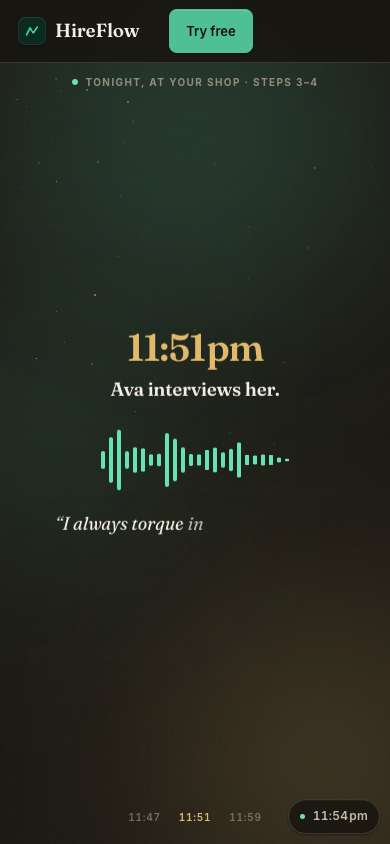
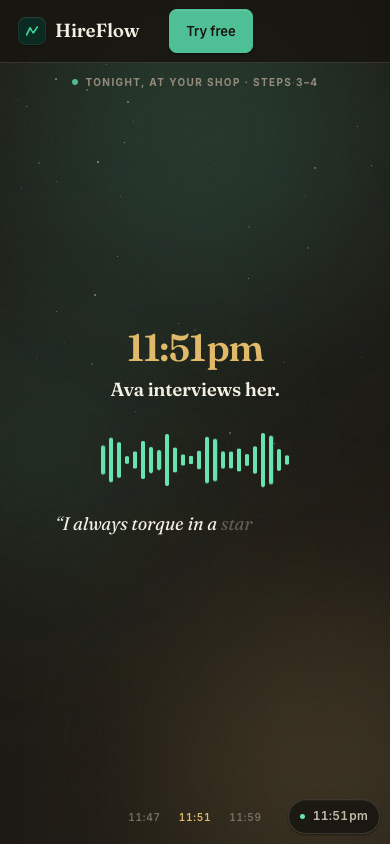
Pin the story/dawn clock chip to the visible beat's own minute; fix Ava-never-rejects honesty claim
The clock chip used to ride a continuous scroll-proportional timer while
each beat's caption held fully opaque and static, so the chip could read
several minutes (dawn strip) or up to ~7 minutes (11:51pm story scene)
ahead of what the caption on screen actually said. Root cause: the
chip's minute value and the beat's opacity were two independent
functions of scroll progress that only agreed at one exact instant, not
across the plateau where a beat sits at full opacity.

Fix: the chip now blends toward each beat's own target minute using
that beat's own opacity as the blend weight (BEAT_OP for the dawn
beats, SC.o1/o2/o3 for the night-shift scenes). Whenever a beat is at
or near full opacity, the weight forces the chip to its exact minute;
it only drifts during a genuine crossfade where no beat is dominant.
Verified via headless scroll sampling across the full night+dawn strip
at 390/820/1440px: the chip never disagrees with a fully-opaque beat's
own stated time.

Also fixed the "Ava recommends. She never rejects." claim (You make
every call section + a matching FAQ answer) — false for the shipped
default: jobFromFlow.ts creates every job with processing_mode "auto",
and autopilot-batch/index.ts auto-rejects candidates below the
employer's bar without a human click. Reworded to honestly describe
Autopilot (on by default, clears calls below the employer's own bar)
vs. Manual (one tap away, every yes/no is the employer's click),
[…]

diff --git a/public/landing.html b/public/landing.html
@@ -1354,40 +1354,40 @@
     </div>
   </section>
 
-  <!-- ── You make every call ── -->
-  <section id="trust" aria-label="You make every call">
+  <!-- ── You set how far Ava goes ── -->
+  <section id="trust" aria-label="You set how far Ava goes">
     <div class="wrap">
-      <p class="kick lbl io">You make every call</p>
-      <h2 class="io" style="--d:.08s">Ava recommends. She never rejects.</h2>
-      <p class="sub io" style="--d:.16s">Ava has no reject button. Hiring at your shop stays yours — she just
-        carries the weight of it.</p>
+      <p class="kick lbl io">You set how far Ava goes</p>
+      <h2 class="io" style="--d:.08s">Ava recommends. You set the bar.</h2>
+      <p class="sub io" style="--d:.16s">Every job starts on Ava&#8217;s autopilot, clearing the calls your own bar
+        already settled. Flip to manual any time, and every yes and every no becomes your click.</p>
       <div class="twocol">
         <div class="col io" style="--d:.05s">
           <div class="col-h">
             <svg viewBox="0 0 100 100" aria-hidden="true"><use href="#wax-sm"/></svg>
-            <span class="lbl">Ava&#8217;s side of the counter</span>
+            <span class="lbl">Autopilot &middot; on by default</span>
           </div>
           <ul>
             <li><svg width="14" height="14" viewBox="0 0 24 24" fill="none" stroke="var(--jade)" stroke-width="2.5" stroke-linecap="round" stroke-linejoin="round" aria-hidden="true"><path d="M4 12.5 9 17.5 20 6.5"/></svg><span>Reads every application — the 11&#8202;pm ones included</span></li>
             <li><svg width="14" height="14" viewBox="0 0 24 24" fill="none" stroke="var(--jade)" stroke-width="2.5" stroke-linecap="round" stroke-linejoin="round" aria-hidden="true"><path d="M4 12.5 9 17.5 20 6.5"/></svg><span>Interviews everyone within minutes, at any hour</span></li>
             <li><svg width="14" height="14" viewBox="0 0 24 24" fill="none" stroke="var(--jade)" stroke-width="2.5" stroke-linecap="round" stroke-linejoin="round" aria-hidden="true"><path d="M4 12.5 9 17.5 20 6.5"/></svg><span>Writes every score down <b>with the evidence behind it</b></span></li>
-            <li><svg width="14" height="14" viewBox="0 0 24 24" fill="none" stroke="var(--jade)" stroke-width="2.5" stroke-linecap="round" stroke-linejoin="round" aria-hidden="true"><path d="M4 12.5 9 17.5 20 6.5"/></svg><span>Sends the courteous &ldquo;not this time&rdquo; notes — after you decide, in your name</span></li>
+            <li><svg width="14" height="14" viewBox="0 0 24 24" fill="none" stroke="var(--jade)" stroke-width="2.5" stroke-linecap="round" stroke-linejoin="round" aria-hidden="true"><path d="M4 12.5 9 17.5 20 6.5"/></svg><span>Clears anyone below <b>the bar you set</b>, with a courteous &ldquo;not this time&rdquo; note sent in your name</span></li>
           </ul>
         </div>
         <div class="col yours io" style="--d:.18s">
           <div class="col-h">
             <span class="brand-mark" style="width:22px;height:22px;border-radius:6px"><svg width="13" height="13" viewBox="0 0 24 24" aria-hidden="true"><use href="#rising"/></svg></span>
-            <span class="lbl">Yours, always</span>
+            <span class="lbl">Manual &middot; one tap away</span>
           </div>
           <ul>
-            <li><svg width="14" height="14" viewBox="0 0 24 24" fill="none" stroke="var(--brass)" stroke-width="2.5" stroke-linecap="round" stroke-linejoin="round" aria-hidden="true"><path d="M4 12.5 9 17.5 20 6.5"/></svg><span>Read three short briefs over coffee</span></li>
-            <li><svg width="14" height="14" viewBox="0 0 24 24" fill="none" stroke="var(--brass)" stroke-width="2.5" stroke-linecap="round" stroke-linejoin="round" aria-hidden="true"><path d="M4 12.5 9 17.5 20 6.5"/></svg><span>Pick who to meet — and meet them your way</span></li>
+            <li><svg width="14" height="14" viewBox="0 0 24 24" fill="none" stroke="var(--brass)" stroke-width="2.5" stroke-linecap="round" stroke-linejoin="round" aria-hidden="true"><path d="M4 12.5 9 17.5 20 6.5"/></svg><span>Switch off autopilot in one tap, any time</span></li>
+            <li><svg width="14" height="14" viewBox="0 0 24 24" fill="none" stroke="var(--brass)" stroke-width="2.5" stroke-linecap="round" stroke-linejoin="round" aria-hidden="true"><path d="M4 12.5 9 17.5 20 6.5"/></svg><span>Read every brief yourself before anything moves</span></li>
             <li><svg width="14" height="14" viewBox="0 0 24 24" fill="none" stroke="var(--brass)" stroke-width="2.5" stroke-linecap="round" stroke-linejoin="round" aria-hidden="true"><path d="M4 12.5 9 17.5 20 6.5"/></svg><span>Say <b>every yes and every no</b> — each one is your click</span></li>
             <li><svg width="14" height="14" viewBox="0 0 24 24" fill="none" stroke="var(--brass)" stroke-width="2.5" stroke-linecap="round" stroke-linejoin="round" aria-hidden="true"><path d="M4 12.5 9 17.5 20 6.5"/></svg><span>Make the hire, shake the hand</span></li>
           </ul>
         </div>
       </div>
-      <p class="never io" style="--d:.1s">Ava never rejects anyone. <b>Not quietly, not automatically, not ever.</b></p>
+      <p class="never io" style="--d:.1s">Autopilot only closes calls your own bar already made obvious. <b>Anything borderline waits for you — and manual mode is always one tap away.</b></p>
     </div>
   </section>
 
@@ -1426,8 +1426,10 @@
         </details>
         <details>
           <summary>Can Ava turn someone down without me?</summary>
-          <p><b>No. Never.</b> Ava scores, seals, and recommends — passing on someone is always your click. And when
-            you do pass, she sends a courteous reply in your name, so the answer is a kindness instead of silence.</p>
+          <p>By default, for the clear cases — Ava&#8217;s autopilot passes on anyone who doesn&#8217;t clear the bar
+            you set, and sends a courteous reply in your name, so the answer is a kindness instead of silence.
+            Anything borderline waits for you, and you can switch to manual mode any time to put every yes and
+            every no back in your own hands.</p>
         </details>
       </div>
     </div>
@@ -1510,6 +1512,11 @@
   var BEATS=[].slice.call(d.querySelectorAll(".beat")).map(function(el){
     return[el,parseFloat(el.getAttribute("data-c"))];});
   var BW=0.115; /* beat band width — wider on a phone so one is always in view */
+  /* the clock chip's dawn-strip minute targets, one per BEATS entry, tuned so
+     the chip reads exactly "1:20 am"/"3:47 am"/"5:36 am" while that beat sits
+     at full opacity (see BEAT_OP below — same weighting keeps the two from
+     ever disagreeing while a beat looks static) */
+  var BEAT_MIN=[81,228,337],BEAT_OP=[0,0,0];
 
   /* ── The night shift: a pinned stage scrubbed by scroll. Everything below is a
      pure function of the section's local progress p — scroll up and it rewinds. ── */
@@ -1547,6 +1554,8 @@
          S3 in    [0.62,0.68]  hold+anim [0.68,0.90]  out [0.90,0.94]
          S4 in    [0.94,1.00]  (phones only — .story-sign) */
     var o1=1-sm(seg(p,0.18,0.24));
+    SC.o1=o1; /* the clock chip reads this back so it can't drift past 11:47pm
+      while this scene is the one sitting fully opaque on screen */
     scene(SC.s1,o1,(1-sm(seg(p,0,0.10)))*18-sm(seg(p,0.18,0.24))*10);
     for(i=0;i<SC.rows.length;i++){ /* born full — the hook card hands off here;
       the lines just settle into place over the first few percent */
@@ -1557,6 +1566,8 @@
     /* 11:51 — the interview: rises only once 11:47 has fully faded, never a
        moment where both are on screen */
     var o2=sm(seg(p,0.24,0.30))*(1-sm(seg(p,0.56,0.62)));
+    SC.o2=o2; /* same guarantee for 11:51pm — this is the plateau the clock
+      chip used to keep marching through while the quote sat still */
     scene(SC.s2,o2,(1-sm(seg(p,0.24,0.30)))*26-sm(seg(p,0.56,0.62))*10);
     var w=seg(p,0.30,0.53);
     for(i=0;i<SC.bars.length;i++){
@@ -1568,6 +1579,7 @@
     for(i=0;i<SC.words.length;i++)SC.words[i].style.opacity=cl(wr-i).toFixed(2);
     /* 11:59 — sealed: rises only once 11:51 has fully faded */
     var o3=sm(seg(p,0.62,0.68))*(1-sm(seg(p,0.90,0.94)));
+    SC.o3=o3; /* same guarantee for 11:59pm */
     scene(SC.s3,o3,(1-sm(seg(p,0.62,0.68)))*28-sm(seg(p,0.90,1))*0.32*vh);
     var n=Math.round(92*(1-Math.pow(1-seg(p,0.69,0.80),3)));
     if(n!==SC.lastN){SC.lastN=n;SC.score.textContent=n;}
@@ -1655,6 +1667,8 @@
       var bd=(t-BEATS[j][1])/BW;
       if(j===BEATS.length-1&&bd>0)bd*=0.35; /* the last beat lingers — no empty sky before morning */
       var bo=1-Math.min(1,Math.abs(bd));bo=bo*bo*(3-2*bo);
+      BEAT_OP[j]=bo; /* the clock chip reads this back, below, so it can never
+        show a different time than a beat that's currently this opaque */
       BEATS[j][0].style.opacity=bo.toFixed(3);
       BEATS[j][0].style.transform="translate3d(-50%,"+(-bd*12).toFixed(1)+"px,0)";
     }
@@ -1673,16 +1687,28 @@
     var end=dTop+dH-vh*0.55;
     var t=cl((y-start)/(end-start));
     if(Math.abs(t-lastT)>0.0015||lastT<0){lastT=t;applyT(t);}
-    /* the clock rides the scroll — 11:47 pm → 7:02 am, agreeing with the story's timestamps */
+    /* the clock rides the scroll — 11:47 pm → 7:02 am, agreeing with the story's timestamps.
+       It's pinned to the current beat's own stated minute for as long as that beat sits at (or
+       near) full opacity — using the exact same opacity numbers the beat renders with (SC.o1/o2/o3,
+       BEAT_OP) as blend weights — so the chip cannot disagree with a caption that looks static.
+       Only inside a genuine crossfade, where no single beat is near full opacity, does it fall back
+       to the old smooth ramp, purely so the number doesn't jump. */
     if(clock){
       var m1;
-      if(SCRUB){m1=p<0.26?4*(p/0.26):p<0.60?4+8*((p-0.26)/0.34):12;}
+      if(SCRUB){
+        var so1=SC.o1||0,so2=SC.o2||0,so3=SC.o3||0,sw=so1+so2+so3;
+        var oldM1=p<0.26?4*(p/0.26):p<0.60?4+8*((p-0.26)/0.34):12;
+        m1=sw>=1?(so2*4+so3*12)/sw:so2*4+so3*12+(1-sw)*oldM1;
+      }
       else{var p1=start>0?cl(y/start):1;m1=12*p1;}
       var ce=Math.max(end+1,mTop-vh*0.42);
       var p3=cl((y-end)/(ce-end));
       /* shaped so the chip agrees with each sky beat as it passes (1:20 / 3:47 / 5:36) */
-      var ts=t<0.37?t*0.546:t<0.57?0.202+(t-0.37)*1.833:t<0.80?0.569+(t-0.57)*1.178:0.840+(t-0.80)*0.8;
-      var total=(23*60+47+Math.round(m1+401*ts+22*p3))%1440;
+      var oldTs=t<0.37?t*0.546:t<0.57?0.202+(t-0.37)*1.833:t<0.80?0.569+(t-0.57)*1.178:0.840+(t-0.80)*0.8;
+      var bw=0,bacc=0;
+      for(var bj=0;bj<BEATS.length;bj++){var bwv=BEAT_OP[bj]||0;bw+=bwv;bacc+=bwv*BEAT_MIN[bj];}
+      var smoothPart=bw>=1?bacc/bw:bacc+(1-bw)*(401*oldTs);
+      var total=(23*60+47+Math.round(m1+smoothPart+22*p3))%1440;
       var h=Math.floor(total/60)%12||12,m=total%60;
       var label=h+":"+(m<10?"0":"")+m+" "+(total>=720?"pm":"am");
       if(label!==lastLabel){lastLabel=label;clockT.textContent=label;}
